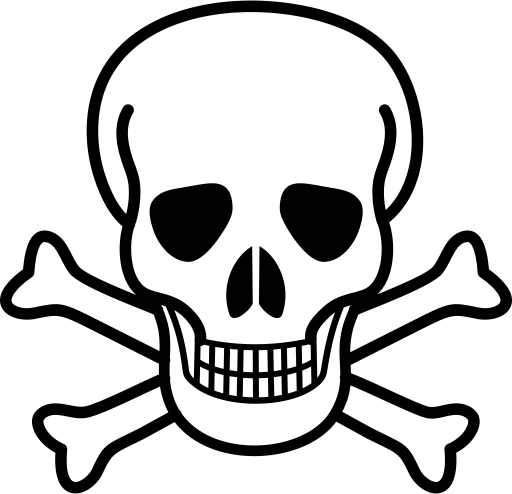
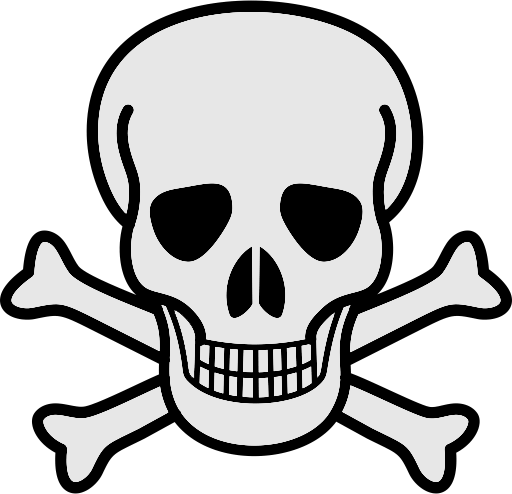
Changed asset and game colors to better match scenario

Changed region(s): [[0.4375, 0.668, 0.625, 0.8198], [0.3438, 0.668, 0.4688, 0.7895], [0.3125, 0.6377, 0.375, 0.668]]

diff --git a/gameConstants.py b/gameConstants.py
@@ -24,14 +24,14 @@ ICON_SIZE = (40, 40)
 PROTECT_DURATION = 2.0  # Number of seconds player is protected if mask used
 DYING_DURATION = 2.0  # Number of seconds dying animation is played
 ENEMY_SAMPLES_COUNT = 4  # Number of different enemy assets
-PLAYER_SPEED = 7  # Keep lower than BLOCK_SIZE
-MAX_NPC_SPEED = 5
+PLAYER_SPEED = 5  # Keep lower than BLOCK_SIZE
+MAX_NPC_SPEED = 7
 ANIMATION_REFRESH = 3
 X_PADDING = 20
 NUM_LEVELS = 10
 FONT_SIZE_BOTTOM_BAR = 40
-FLOOR_COLOR = (200, 200, 200)
-BAR_COLOR = (255, 255, 255)
+FLOOR_COLOR = (155, 188, 160)
+BAR_COLOR = (40, 40, 40)
 
 ASSETS_LOCATION = "assets"
 LEVEL_LOCATION = "levels"
